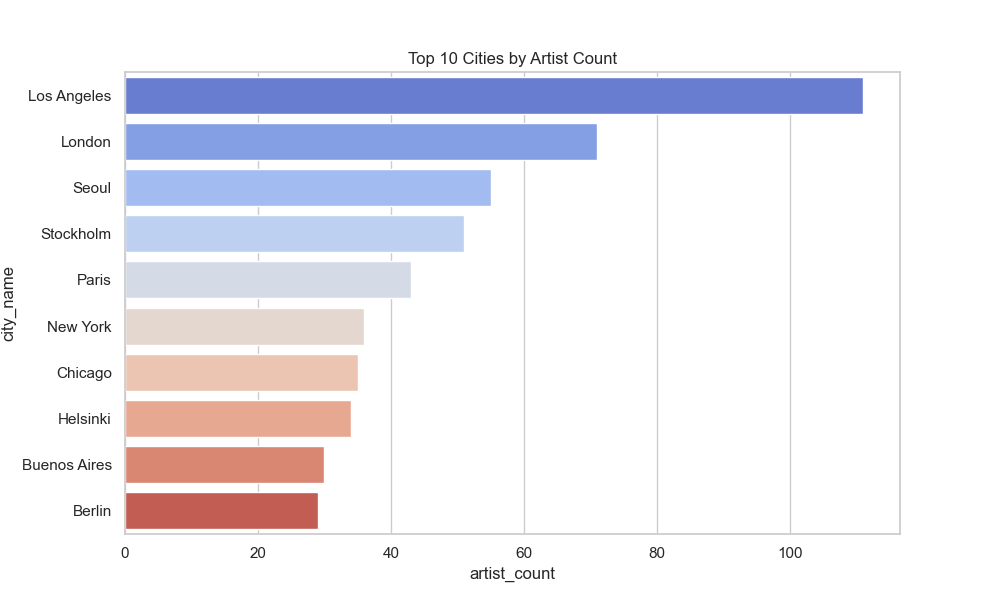
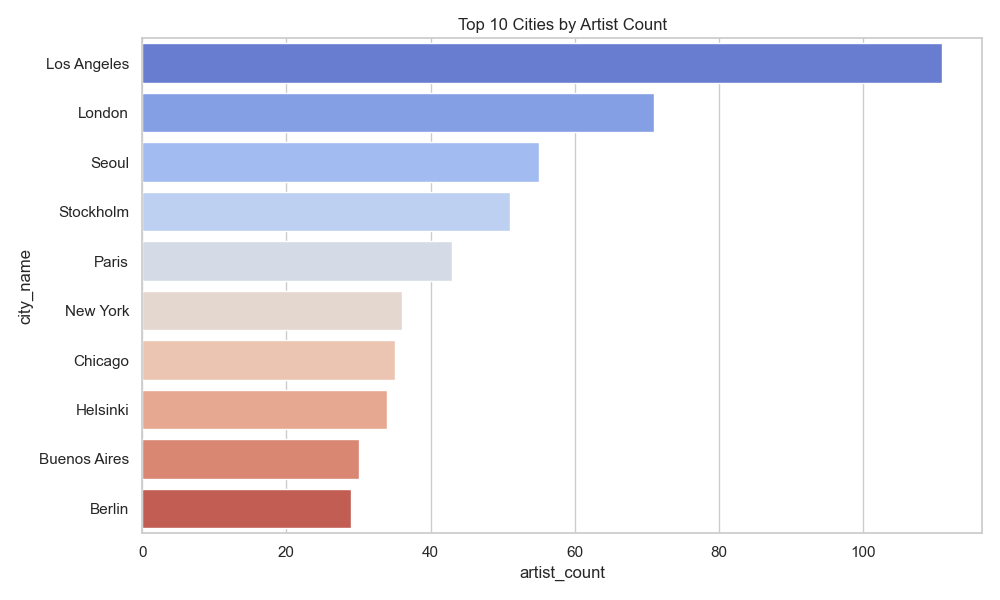
commit message

Changed region(s): [[0.0, 0.03, 0.992, 0.99]]

diff --git a/analytics.py b/analytics.py
@@ -23,23 +23,54 @@ conn = psycopg2.connect(
 def run_query(query):
     return pd.read_sql(query, conn)
 
-
 # Visualization Section
-
 def generate_charts():
     print("Generating charts...")
 
-    # 1. Pie chart → Artist distribution by gender
+    # 1. Pie chart → Artist distribution by gender (with small slice outside & color marker)
     df = run_query("""
         SELECT gender, COUNT(*) as count
         FROM artists
         GROUP BY gender;
     """)
-    plt.figure(figsize=(6,6))
-    plt.pie(df['count'], labels=df['gender'], autopct='%1.1f%%', colors=sns.color_palette("Set2"))
+    total = df['count'].sum()
+    df['percentage'] = (df['count'] / total) * 100
+
+    # Split small (<1%) and main slices
+    small = df[df['percentage'] < 1]
+    df_main = df[df['percentage'] >= 1]
+
+    plt.figure(figsize=(6, 6))
+    colors = sns.color_palette("Set2", len(df_main))
+    wedges, texts, autotexts = plt.pie(
+        df_main['count'],
+        labels=df_main['gender'],
+        autopct='%1.1f%%',
+        colors=colors,
+        startangle=90
+    )
+
+    # Add small segments outside chart with color box
+    if not small.empty:
+        x, y = 1.2, 1.0  # starting position for outside labels
+        for i, (_, row) in enumerate(small.iterrows()):
+            color = sns.color_palette("Set2")[i % len(colors)]
+            plt.text(
+                x, y - i * 0.1,
+                f"{row['gender']} ({row['percentage']:.1f}%)",
+                fontsize=10,
+                va="center",
+            )
+            plt.scatter(
+                x - 0.08, y - i * 0.1,
+                s=120, color=color, marker='s'
+            )
+
     plt.title("Artist Distribution by Gender")
-    plt.savefig("charts/pie_gender.png")
-    print("Pie chart saved: charts/pie_gender.png")
+    plt.tight_layout()
+    plt.savefig("charts/pie_gender_fixed.png")
+    plt.close()
+    print("Pie chart saved: charts/pie_gender_fixed.png")
 
     # 2. Bar chart → Top 10 countries
     df = run_query("""
@@ -54,7 +85,9 @@ def generate_charts():
     sns.barplot(x="country_name", y="artist_count", data=df, palette="viridis")
     plt.title("Top 10 Countries by Artist Count")
     plt.xticks(rotation=45)
+    plt.tight_layout()
     plt.savefig("charts/bar_countries.png")
+    plt.close()
     print("Bar chart saved: charts/bar_countries.png")
 
     # 3. Horizontal bar chart → Top 10 cities
@@ -69,7 +102,9 @@ def generate_charts():
     plt.figure(figsize=(10,6))
     sns.barplot(x="artist_count", y="city_name", data=df, palette="coolwarm")
     plt.title("Top 10 Cities by Artist Count")
+    plt.tight_layout()
     plt.savefig("charts/hbar_cities.png")
+    plt.close()
     print("Horizontal bar chart saved: charts/hbar_cities.png")
 
     # 4. Line chart → Average age by gender
@@ -83,7 +118,9 @@ def generate_charts():
     plt.figure(figsize=(8,5))
     sns.lineplot(x="gender", y="avg_age", data=df, marker="o", color="orange")
     plt.title("Average Age by Gender")
+    plt.tight_layout()
     plt.savefig("charts/line_age_gender.png")
+    plt.close()
     print("Line chart saved: charts/line_age_gender.png")
 
     # 5. Histogram → Age distribution
@@ -91,20 +128,24 @@ def generate_charts():
     plt.figure(figsize=(10,6))
     sns.histplot(df['age'], bins=30, kde=True, color="purple")
     plt.title("Artist Age Distribution")
+    plt.tight_layout()
     plt.savefig("charts/hist_age.png")
+    plt.close()
     print("Histogram saved: charts/hist_age.png")
 
-    # 6. Scatter plot → Age vs Artist ID (proxy for diversity)
-    df = run_query("SELECT artist_id, age FROM artists WHERE age > 0 LIMIT 500;")
-    plt.figure(figsize=(10,6))
-    sns.scatterplot(x="artist_id", y="age", data=df, color="green", alpha=0.6)
-    plt.title("Scatter Plot: Artist ID vs Age")
-    plt.savefig("charts/scatter_age.png")
-    print("Scatter plot saved: charts/scatter_age.png")
-
+    # 6. Scatter plot → Artist Age vs ID (colored by gender)
+    df = run_query("SELECT artist_id, age, gender FROM artists WHERE age > 0 LIMIT 500;")
+    plt.figure(figsize=(8, 6))
+    sns.scatterplot(data=df, x="age", y="artist_id", hue="gender", palette="viridis")
+    plt.title("Artist Age vs. ID by Gender")
+    plt.xlabel("Artist Age")
+    plt.ylabel("Artist (ID proxy)")
+    plt.tight_layout()
+    plt.savefig("charts/scatter_age_vs_id_fixed.png")
+    plt.close()
+    print("Scatter plot saved: charts/scatter_age_vs_id_fixed.png")
 
 # Interactive Plotly (Fixed Smooth Slider)
-
 def interactive_plot():
     df = run_query("""
         SELECT a.artist_name, a.age, c.country_name
@@ -114,12 +155,9 @@ def interactive_plot():
         WHERE a.age > 0
         LIMIT 300;
     """)
-
     import numpy as np
     years = list(range(1990, 2023))
     df["year"] = np.random.choice(years, size=len(df))
-
-    # Ensure all years appear
     all_years = pd.DataFrame({
         "year": years,
         "age": [None]*len(years),
@@ -127,11 +165,7 @@ def interactive_plot():
         "artist_name": [None]*len(years)
     })
     df = pd.concat([df, all_years], ignore_index=True)
-
-    # Force chronological order
     df = df.sort_values("year")
-
-    # Plot
     fig = px.scatter(
         df,
         x="age",
@@ -144,40 +178,27 @@ def interactive_plot():
     )
     fig.show()
 
-
-
-
-#  Export to Excel
-
+# Export to Excel
 def export_to_excel():
     df = run_query("SELECT * FROM artists LIMIT 100;")
-
     wb = Workbook()
     ws = wb.active
     ws.title = "Artists"
-    
-    # Write header
     ws.append(list(df.columns))
     for row in df.itertuples(index=False):
         ws.append(row)
-
-    # Apply formatting
     header_fill = PatternFill(start_color="FFD700", end_color="FFD700", fill_type="solid")
     for cell in ws[1]:
         cell.fill = header_fill
         cell.font = Font(bold=True)
-
-    # Conditional color scale for age column (col D = 4th column)
     rule = ColorScaleRule(start_type="min", start_color="FFAAAA",
                           mid_type="percentile", mid_value=50, mid_color="FFFFFF",
                           end_type="max", end_color="AAFFAA")
     ws.conditional_formatting.add("D2:D100", rule)
-
     wb.save("exports/spotify_report.xlsx")
     print("Excel export saved: exports/spotify_report.xlsx")
 
 # Main
-
 if __name__ == "__main__":
     generate_charts()
     interactive_plot()

diff --git a/auto_refresh.py b/auto_refresh.py
@@ -1,0 +1,85 @@
+#!/usr/bin/env python3
+"""
+auto_refresh.py
+Inserts realistic new artist records every N seconds, keeping foreign keys valid.
+Run: python3 auto_refresh.py
+Stop: Ctrl+C
+"""
+
+import psycopg2
+import random
+import time
+import sys
+
+DB = {
+    "dbname": "spotifydb",
+    "user": "dbuser",
+    "password": "",
+    "host": "localhost",
+    "port": "5432",
+}
+
+SLEEP_SECONDS = 10  # interval between inserts
+
+def main():
+    try:
+        conn = psycopg2.connect(**DB)
+    except Exception as e:
+        print("ERROR: cannot connect to database:", e)
+        sys.exit(1)
+
+    cur = conn.cursor()
+
+    # Pools for realistic values
+    genders = ["male", "female", "mixed", "other", ""]
+    types = ["person", "group"]
+
+    # Load existing country IDs for valid foreign keys
+    cur.execute("SELECT country_id FROM countries;")
+    country_rows = cur.fetchall()
+    country_ids = [r[0] for r in country_rows]
+
+    if not country_ids:
+        print("ERROR: No country_id values found in the database.")
+        print("Make sure 'countries' table is populated.")
+        conn.close()
+        sys.exit(1)
+
+    print("Starting auto data insertion... (Press Ctrl+C to stop)\n")
+
+    try:
+        while True:
+            name = f"NewArtist_{random.randint(1000, 9999)}"
+            gender = random.choice(genders)
+            age = random.randint(18, 70)
+            a_type = random.choice(types)
+            country_id = random.choice(country_ids)
+
+            try:
+                # Insert into artists
+                cur.execute(
+                    """
+                    INSERT INTO artists (artist_name, gender, age, type, country_id)
+                    VALUES (%s, %s, %s, %s, %s)
+                    RETURNING artist_id;
+                    """,
+                    (name, gender, age, a_type, country_id),
+                )
+                artist_id = cur.fetchone()[0]
+                conn.commit()
+                print(f"✅ Added artist: {name}, gender={gender or 'unknown'}, age={age}, type={a_type}")
+
+            except Exception as e:
+                conn.rollback()
+                print("Insert failed, rolled back. Error:", e)
+
+            time.sleep(SLEEP_SECONDS)
+
+    except KeyboardInterrupt:
+        print("\n🛑 Stopped by user.")
+    finally:
+        cur.close()
+        conn.close()
+
+if __name__ == "__main__":
+    main()
